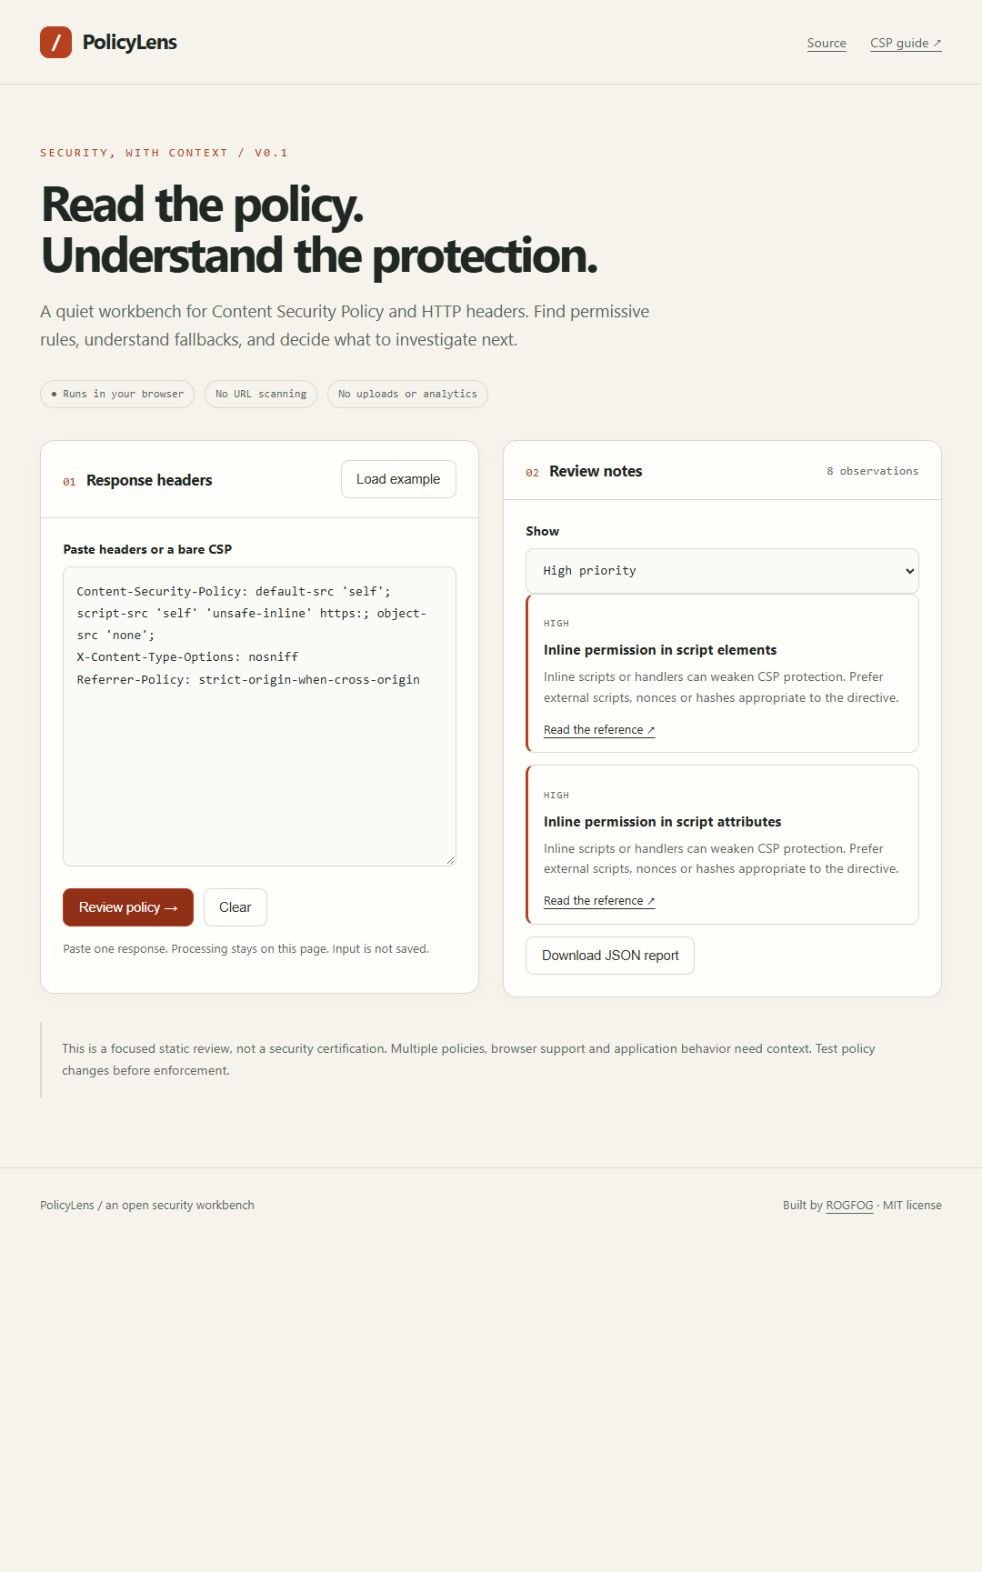
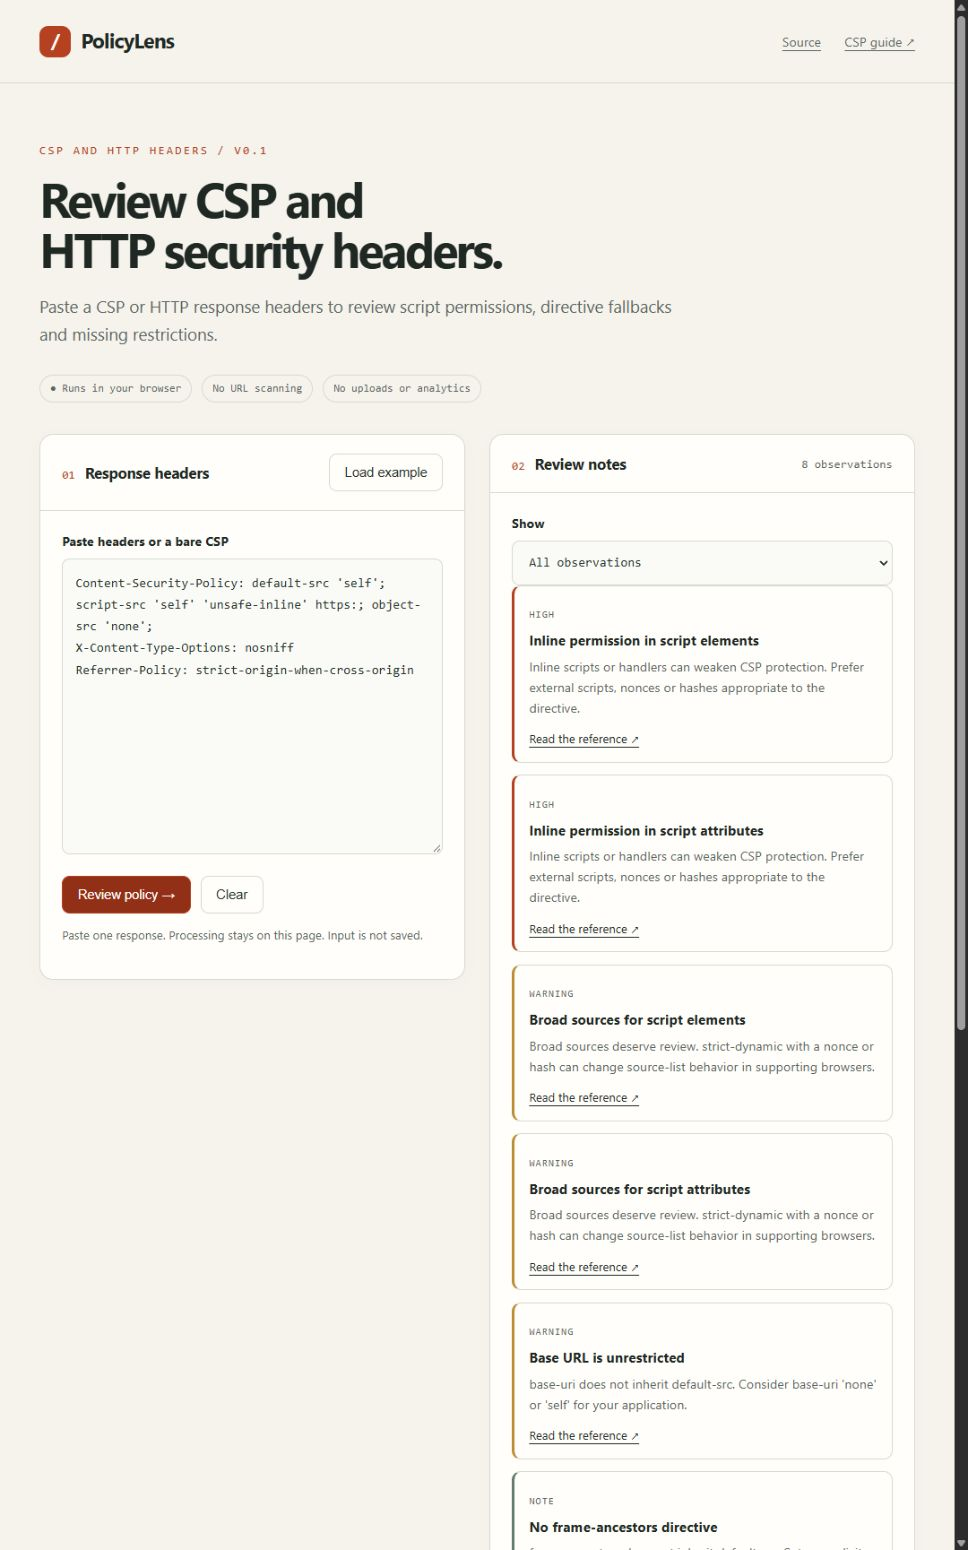
Describe project behavior directly

diff --git a/index.html b/index.html
@@ -1,7 +1,7 @@
 <!doctype html>
 <html lang="en"><head><meta charset="utf-8"><meta name="viewport" content="width=device-width,initial-scale=1"><meta name="description" content="A local-first workbench for understanding Content Security Policy and HTTP security headers."><title>PolicyLens — understand your security headers</title><link rel="stylesheet" href="./styles.css"><script type="module" src="./main.js"></script></head>
 <body><header><a class="brand" href="./"><span class="mark">/</span>PolicyLens</a><nav aria-label="Main"><a href="https://github.com/ROGFOG/PolicyLens">Source</a><a href="https://developer.mozilla.org/en-US/docs/Web/HTTP/CSP">CSP guide ↗</a></nav></header>
-<main><p class="eyebrow">Security, with context / v0.1</p><h1>Read the policy.<br>Understand the protection.</h1><p class="intro">A quiet workbench for Content Security Policy and HTTP headers. Find permissive rules, understand fallbacks, and decide what to investigate next.</p><div class="tags"><span class="tag">● Runs in your browser</span><span class="tag">No URL scanning</span><span class="tag">No uploads or analytics</span></div>
+<main><p class="eyebrow">CSP and HTTP headers / v0.1</p><h1>Review CSP and<br>HTTP security headers.</h1><p class="intro">Paste a CSP or HTTP response headers to review script permissions, directive fallbacks and missing restrictions.</p><div class="tags"><span class="tag">● Runs in your browser</span><span class="tag">No URL scanning</span><span class="tag">No uploads or analytics</span></div>
 <div class="grid"><section class="panel"><div class="panel-head"><h2><span class="number">01</span>Response headers</h2><button id="example" type="button">Load example</button></div><form id="review" class="panel-body"><label for="headers">Paste headers or a bare CSP</label><textarea id="headers" spellcheck="false" placeholder="Content-Security-Policy: default-src 'self'; script-src 'self' 'unsafe-inline';&#10;X-Content-Type-Options: nosniff" maxlength="100000"></textarea><div class="actions"><button class="primary" type="submit">Review policy →</button><button id="clear" type="button">Clear</button></div><p class="hint">Paste one response. Processing stays on this page. Input is not saved.</p><p id="error" class="error" role="alert"></p></form></section>
-<section class="panel" aria-labelledby="results-title"><div class="panel-head"><h2 id="results-title"><span class="number">02</span>Review notes</h2><span id="summary" class="summary">Awaiting input</span></div><div class="panel-body"><label for="filter">Show</label><select id="filter"><option value="all">All observations</option><option value="high">High priority</option><option value="warning">Warnings</option><option value="note">Context notes</option></select><div id="results" aria-live="polite"><p class="empty">Your policy has a story.<br>Paste it on the left to start reading.</p></div><button id="download" type="button" hidden>Download JSON report</button></div></section></div>
+<section class="panel" aria-labelledby="results-title"><div class="panel-head"><h2 id="results-title"><span class="number">02</span>Review notes</h2><span id="summary" class="summary">Awaiting input</span></div><div class="panel-body"><label for="filter">Show</label><select id="filter"><option value="all">All observations</option><option value="high">High priority</option><option value="warning">Warnings</option><option value="note">Context notes</option></select><div id="results" aria-live="polite"><p class="empty">Paste a CSP or response headers on the left to see review notes.</p></div><button id="download" type="button" hidden>Download JSON report</button></div></section></div>
 <p class="notice">This is a focused static review, not a security certification. Multiple policies, browser support and application behavior need context. Test policy changes before enforcement.</p></main><footer><span>PolicyLens / an open security workbench</span><span>Built by <a href="https://github.com/ROGFOG">ROGFOG</a> · MIT license</span></footer></body></html>

diff --git a/README.md b/README.md
@@ -1,8 +1,8 @@
 # PolicyLens
 
-A local-first workbench for understanding Content Security Policy and HTTP
-security headers. Paste a response or a bare CSP, then inspect contextual review
-notes with links to the relevant documentation.
+Paste a Content Security Policy or HTTP response headers to review script
+permissions, directive fallbacks and missing restrictions. Each finding links
+to the relevant documentation. All processing happens in the browser.
 
 [Open the workbench](https://rogfog.github.io/PolicyLens/) · [Design notes, RU](docs/design.ru.md)
 
